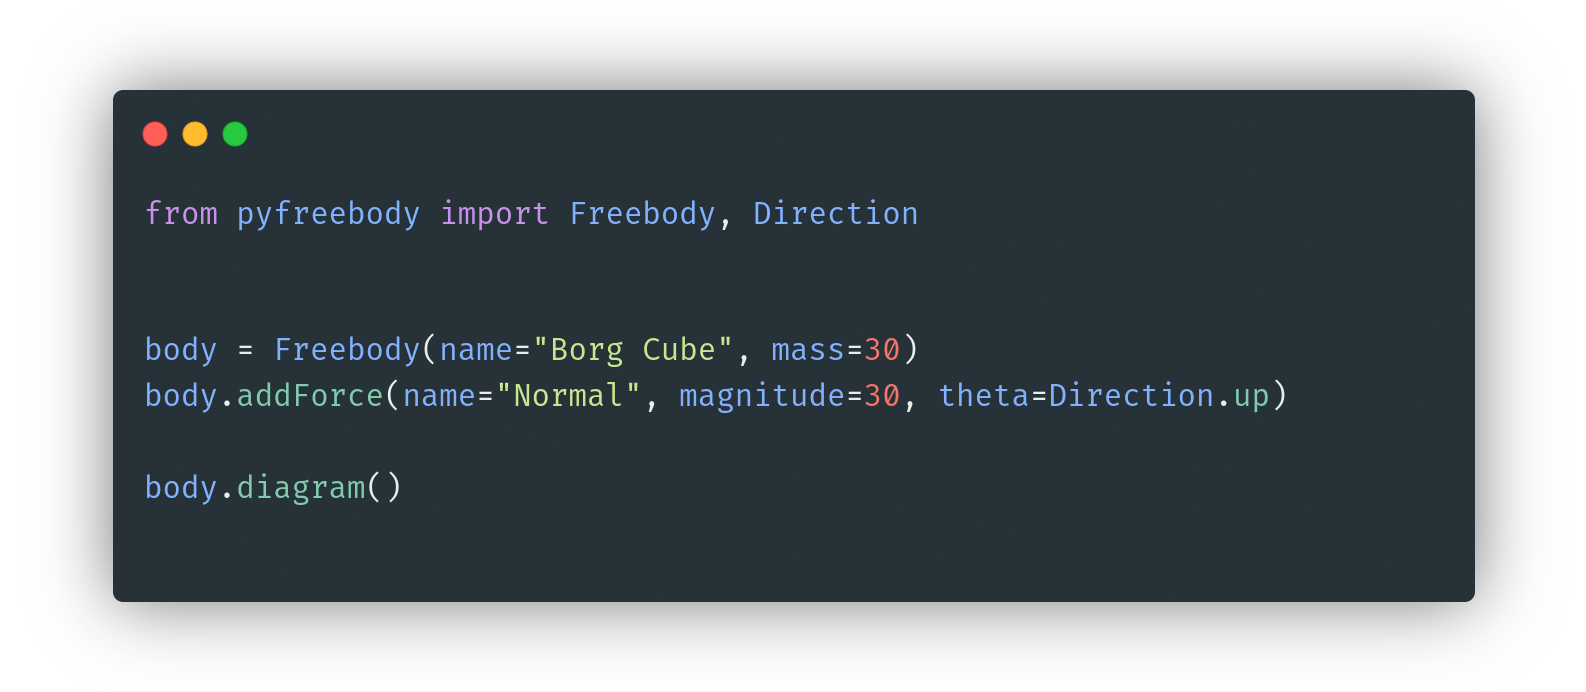
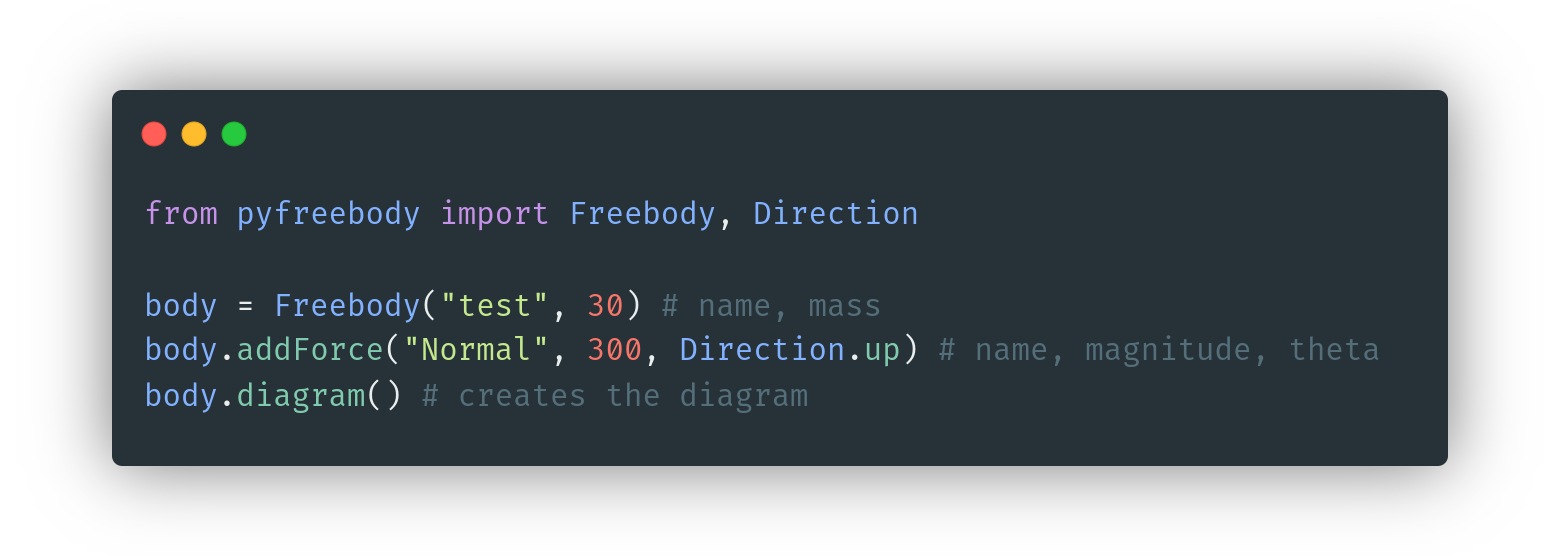
new demo

diff --git a/demos/demo1.py b/demos/demo1.py
@@ -1,7 +1,5 @@
-from pyfreebody.pyfreebody import Freebody, Direction
-import math
+from pyfreebody import Freebody, Direction
 
-
-body = Freebody("test", 30)
-body.addForce("Normal", 30, Direction.up)
-body.diagram()
+body = Freebody("test", 30) # name, mass
+body.addForce("Normal", 300, Direction.up) # name, magnitude, theta
+body.diagram() # creates the diagram

diff --git a/setup.py b/setup.py
@@ -5,6 +5,9 @@ from setuptools import setup, find_packages
 setup(
     name='pyfreebody',
     version='0.1.0',
+    author="Daniel Rosel",
+    url="https://github.com/danalves24com/pyfreebody",
+    long_description = "README.md",
     packages=find_packages(include=['pyfreebody']),
         install_requires=[
             "Pillow"
